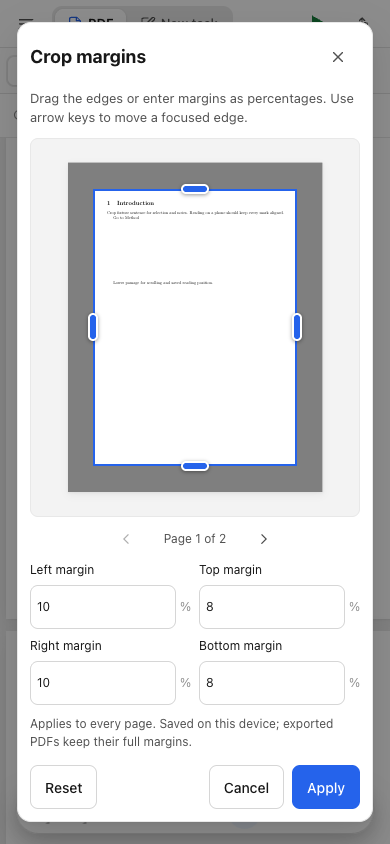
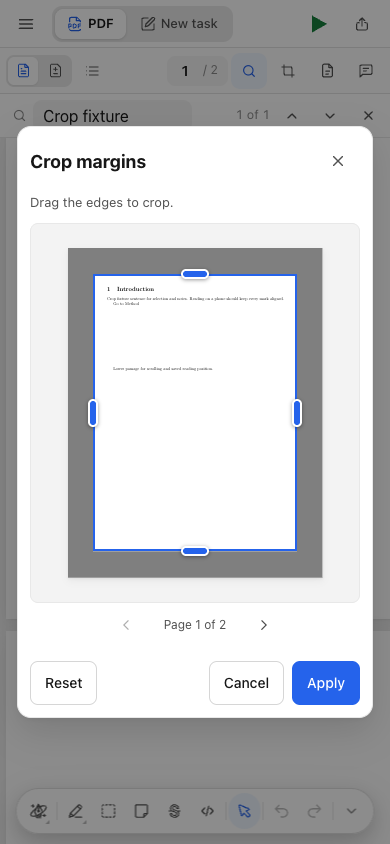
Simplify the crop editor to edge dragging

diff --git a/src/web/pdf-crop-dialog.tsx b/src/web/pdf-crop-dialog.tsx
@@ -9,7 +9,7 @@ export function PdfCropDialog({ document, page, crop, onApply, onClose }: {
   document: PDFDocumentProxy; page: number; crop: PdfCrop; onApply: (crop: PdfCrop) => void; onClose: () => void;
 }) {
   const dialog = useRef<HTMLDialogElement>(null), stage = useRef<HTMLDivElement>(null), preview = useRef<HTMLDivElement>(null), canvas = useRef<HTMLCanvasElement>(null);
-  const title = useId(), hint = useId(), fields = useId();
+  const title = useId(), hint = useId();
   const [draft, setDraft] = useState<PdfCrop>(crop), [number, setNumber] = useState(page), [retry, setRetry] = useState(0);
   const [ready, setReady] = useState(false), [error, setError] = useState(false);
   const drag = useRef<{ id: number; edge: number; start: number; value: number; size: number } | null>(null);
@@ -47,16 +47,15 @@ export function PdfCropDialog({ document, page, crop, onApply, onClose }: {
     observer.observe(stage.current!);
     return () => { disposed = true; generation++; observer.disconnect(); cancelAnimationFrame(frame); render?.cancel(); };
   }, [document, number, retry]);
-  const margin = (edge: number) => Math.round((edge < 2 ? draft[edge] : 1 - draft[edge]) * 100);
   return <dialog ref={dialog} className="pdf-crop-dialog" aria-labelledby={title} onClose={onClose}>
     <header><h2 id={title}>{t('Crop margins')}</h2><button type="button" className="icon-button" aria-label={t('Close')} onClick={() => dialog.current!.close()}><Icon name="close"/></button></header>
-    <p id={hint}>{t('Drag the edges or enter margins as percentages. Use arrow keys to move a focused edge.')}</p>
+    <p id={hint}>{t('Drag the edges to crop.')}</p>
     <div className="pdf-crop-stage" ref={stage}>
       <div className="pdf-crop-preview" ref={preview} style={{ visibility: ready ? 'visible' : 'hidden' }}>
         <canvas ref={canvas} aria-label={t('Page {page}', { page: number })}/>
         <div className="pdf-crop-shade" style={{ clipPath: `polygon(0 0,100% 0,100% 100%,0 100%,0 0,${draft[0] * 100}% ${draft[1] * 100}%,${draft[0] * 100}% ${draft[3] * 100}%,${draft[2] * 100}% ${draft[3] * 100}%,${draft[2] * 100}% ${draft[1] * 100}%,${draft[0] * 100}% ${draft[1] * 100}%)` }}/>
         <div className="pdf-crop-outline" style={{ left: `${draft[0] * 100}%`, top: `${draft[1] * 100}%`, width: `${(draft[2] - draft[0]) * 100}%`, height: `${(draft[3] - draft[1]) * 100}%` }}/>
-        {labels.map((label, edge) => <button key={edge} type="button" className={'pdf-crop-handle ' + (edge % 2 ? 'horizontal' : 'vertical')} aria-label={label} aria-describedby={hint}
+        {labels.map((label, edge) => <button key={edge} type="button" className={'pdf-crop-handle ' + (edge % 2 ? 'horizontal' : 'vertical')} aria-label={`${label} (${Math.round((edge < 2 ? draft[edge] : 1 - draft[edge]) * 100)}%)`} aria-describedby={hint}
           style={{ left: `${(edge % 2 ? (draft[0] + draft[2]) / 2 : draft[edge]) * 100}%`, top: `${(edge % 2 ? draft[edge] : (draft[1] + draft[3]) / 2) * 100}%` }}
           onPointerDown={event => {
             if (event.button !== 0 || !event.isPrimary) return;
@@ -79,11 +78,6 @@ export function PdfCropDialog({ document, page, crop, onApply, onClose }: {
       {!ready && <div className="pdf-crop-status">{error ? <><p role="alert">{t('The page preview could not be loaded.')}</p><button type="button" className="button secondary" onClick={() => setRetry(value => value + 1)}>{t('Retry')}</button></> : <span className="spinner" aria-label={t('Loading…')}/>}</div>}
     </div>
     <div className="pdf-crop-page"><button type="button" className="icon-button" aria-label={t('Previous page')} disabled={number <= 1} onClick={() => setNumber(value => value - 1)}><Icon name="chevronLeft"/></button><span>{t('Page {page} of {pages}', { page: number, pages: document.numPages })}</span><button type="button" className="icon-button" aria-label={t('Next page')} disabled={number >= document.numPages} onClick={() => setNumber(value => value + 1)}><Icon name="chevronRight"/></button></div>
-    <div className="pdf-crop-fields">{labels.map((label, edge) => <label key={edge} htmlFor={`${fields}-${edge}`}>{label}<span><input id={`${fields}-${edge}`} type="number" min="0" max={Math.round((edge < 2 ? draft[edge + 2] - CROP_STEP : 1 - draft[edge - 2] - CROP_STEP) * 100)} step="1" inputMode="numeric" value={margin(edge)} onChange={event => {
-      const value = event.currentTarget.valueAsNumber;
-      if (Number.isFinite(value)) setDraft(current => moveCropEdge(current, edge, edge < 2 ? value / 100 : 1 - value / 100));
-    }}/>%</span></label>)}</div>
-    <p className="pdf-crop-help">{t('Applies to every page. Saved on this device; exported PDFs keep their full margins.')}</p>
     <footer><button type="button" className="button secondary" onClick={() => { onApply(FULL_PAGE); dialog.current!.close(); }}>{t('Reset')}</button><div><button type="button" className="button secondary" autoFocus onClick={() => dialog.current!.close()}>{t('Cancel')}</button><button type="button" className="button primary" disabled={!ready} onClick={() => { onApply(draft); dialog.current!.close(); }}>{t('Apply')}</button></div></footer>
   </dialog>;
 }

diff --git a/src/web/pdf-crop.css b/src/web/pdf-crop.css
@@ -15,18 +15,13 @@
 .pdf-crop-handle:focus-visible{outline:2px solid var(--accent);outline-offset:-3px;border-radius:6px}
 .pdf-crop-status{position:absolute;inset:0;display:flex;flex-direction:column;align-items:center;justify-content:center;padding:20px;text-align:center}
 .pdf-crop-page{display:flex;align-items:center;justify-content:center;gap:16px;font-size:12px;color:var(--text-2)}
-.pdf-crop-fields{display:grid;grid-template-columns:repeat(2,minmax(0,1fr));gap:8px 16px}
-.pdf-crop-fields label{display:flex;align-items:center;justify-content:space-between;gap:6px;font-size:12px;min-width:0}
-.pdf-crop-fields label>span{display:flex;align-items:center;gap:4px;color:var(--text-3)}
-.pdf-crop-fields input{width:58px;min-height:36px;padding:6px;border:1px solid var(--line-strong);border-radius:var(--r);background:var(--bg);color:var(--text);font:inherit}
 .pdf-crop-dialog footer{margin-top:14px;flex-wrap:wrap}
 .pdf-crop-dialog .icon-button{min-width:36px;min-height:36px}
 .pdf-crop-dialog .button{min-height:36px}
-.pdf-crop-dialog .pdf-crop-help{font-size:12px}
 /* Make room for the extra tool before a medium desktop toolbar wraps. */
 @container (min-width:761px) and (max-width:1000px){.pdf-toolbar .pdf-contents-trigger{width:30px;padding:0;justify-content:center}.pdf-toolbar .pdf-contents-trigger>span,.pdf-toolbar .pdf-contents-trigger>svg:last-child{display:none}}
-@media(pointer:coarse){.pdf-crop-dialog .button,.pdf-crop-dialog .icon-button,.pdf-crop-fields input{min-height:44px}.pdf-crop-dialog .icon-button{min-width:44px}}
-@media(max-width:400px){.pdf-crop-dialog{padding:12px}.pdf-crop-fields{gap:8px}.pdf-crop-fields label{flex-direction:column;align-items:flex-start}.pdf-crop-fields label>span{width:100%}.pdf-crop-fields input{flex:1;min-width:0}}
+@media(pointer:coarse){.pdf-crop-dialog .button,.pdf-crop-dialog .icon-button{min-height:44px}.pdf-crop-dialog .icon-button{min-width:44px}}
+@media(max-width:400px){.pdf-crop-dialog{padding:12px}}
 .pdf-cropped .pdf-container .pdfViewer .page{overflow:clip}
 /* PDF.js fits to the scroll container's width, which excludes no viewer padding. */
 .pdf-cropped .pdf-container .pdfViewer{padding-inline:0}

diff --git a/CHANGELOG.md b/CHANGELOG.md
@@ -6,7 +6,7 @@ Notable changes to Papilot, newest first. The format follows [Keep a Changelog](
 
 ### Added
 
-- **Crop PDF margins for mobile reading.** Choose **Crop margins** in the PDF toolbar, drag the four edges or enter percentages, then apply the crop to every page. **Fit width** fits the remaining area, and each document remembers its crop on this device across reopening and recompilation. **Reset** restores the full page. Notes and source locations stay aligned, and exported PDFs keep their original margins. ([#194](https://github.com/PapilotAI/papilot/issues/194))
+- **Crop PDF margins for mobile reading.** Choose **Crop margins** in the PDF toolbar, drag the four edges, then apply the crop to every page. **Fit width** fits the remaining area, and each document remembers its crop on this device across reopening and recompilation. **Reset** restores the full page. Notes and source locations stay aligned, and exported PDFs keep their original margins. ([#194](https://github.com/PapilotAI/papilot/issues/194))
 - **Browse the repository and compile any of its documents.** **Manuscript** in the sidebar names the document it compiles; select the name to list the paper's repository, where any text file opens in the source editor beside the PDF. When a repository holds several root documents, such as a thesis, its slides and a response letter, the play button on a document's row compiles it instead of the current one. Each document keeps its own build settings, notes and reading position, and a task keeps compiling the document it was started on. ([#188](https://github.com/PapilotAI/papilot/pull/188))
 - **Run Papilot from an installation that pins its version.** Container images, server deployments and system packages can set `PAPILOT_INSTALL_METHOD=managed` to get the behavior the Nix package already has: Papilot never checks for or installs updates, ignores releases that earlier in-app updates installed, and never downloads Codex or agent SDKs at runtime. **Settings → Updates** shows the current version with a note that updates are managed outside Papilot, without the unavailable **Check for updates** button (Nix installations too). A missing SDK names the package to install, and `papilot doctor` suggests installing Codex and SDKs with the installation. Under Nix, `papilot doctor` now finds the agent SDKs the package includes. See [Updates](docs/guide.md#updates). ([#190](https://github.com/PapilotAI/papilot/pull/190))
 - **Start a paper from a template.** **New paper…** opens a gallery of [Papilot Universe](https://papilot.ai/universe/) templates (university theses, conference and journal author kits, slides, posters, CVs and books, plus more than 400 conferences, each pointing at the template its call for papers asks for) with type filters and search, beside **Blank paper**. Papilot downloads the chosen version, verifies its checksum, creates the folder with Git history and sets the template's main file and engine. **Open in Papilot** on a template's Universe page opens the desktop app with that template chosen. Offline, only the blank paper is offered.

diff --git a/docs/guide.md b/docs/guide.md
@@ -180,7 +180,7 @@ Turn on **Settings → Notifications** to receive browser notifications while Pa
 
 ### Crop PDF margins
 
-On a phone or a narrow panel, choose **Crop margins** in the PDF toolbar to make the text fill more of the screen. Drag the four edges in the preview or enter each margin as a percentage. You can also focus an edge and use the arrow keys. Use the page arrows to check the crop on other pages, then choose **Apply** to apply it to the whole document and fit the remaining width.
+On a phone or a narrow panel, choose **Crop margins** in the PDF toolbar to make the text fill more of the screen. Drag the four edges in the preview. You can also focus an edge and use the arrow keys. Use the page arrows to check the crop on other pages, then choose **Apply** to apply it to the whole document and fit the remaining width.
 
 <img src="assets/pdf-crop-editor.png" alt="Adjusting the four PDF margins on a phone" width="280"> <img src="assets/pdf-crop-reading.png" alt="Reading the cropped PDF at Fit width" width="280">
 
